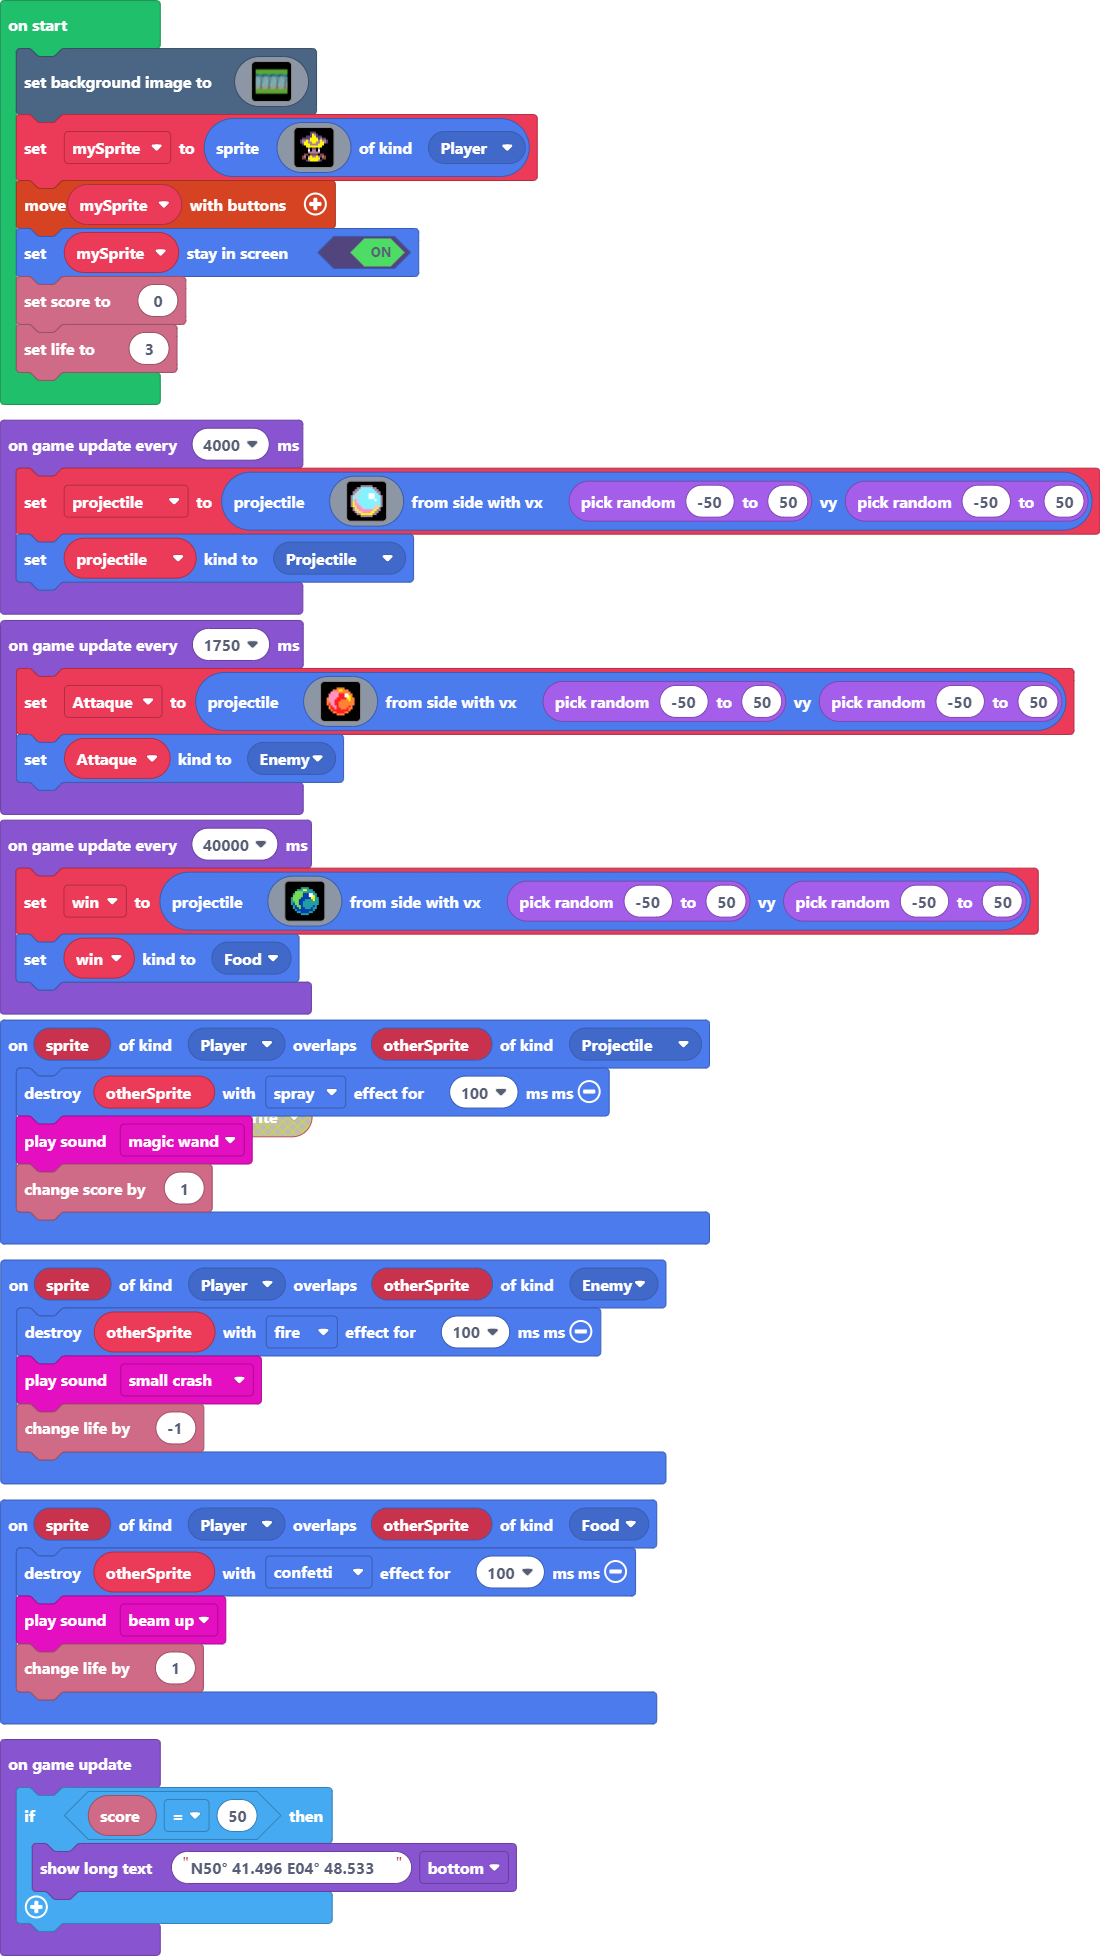
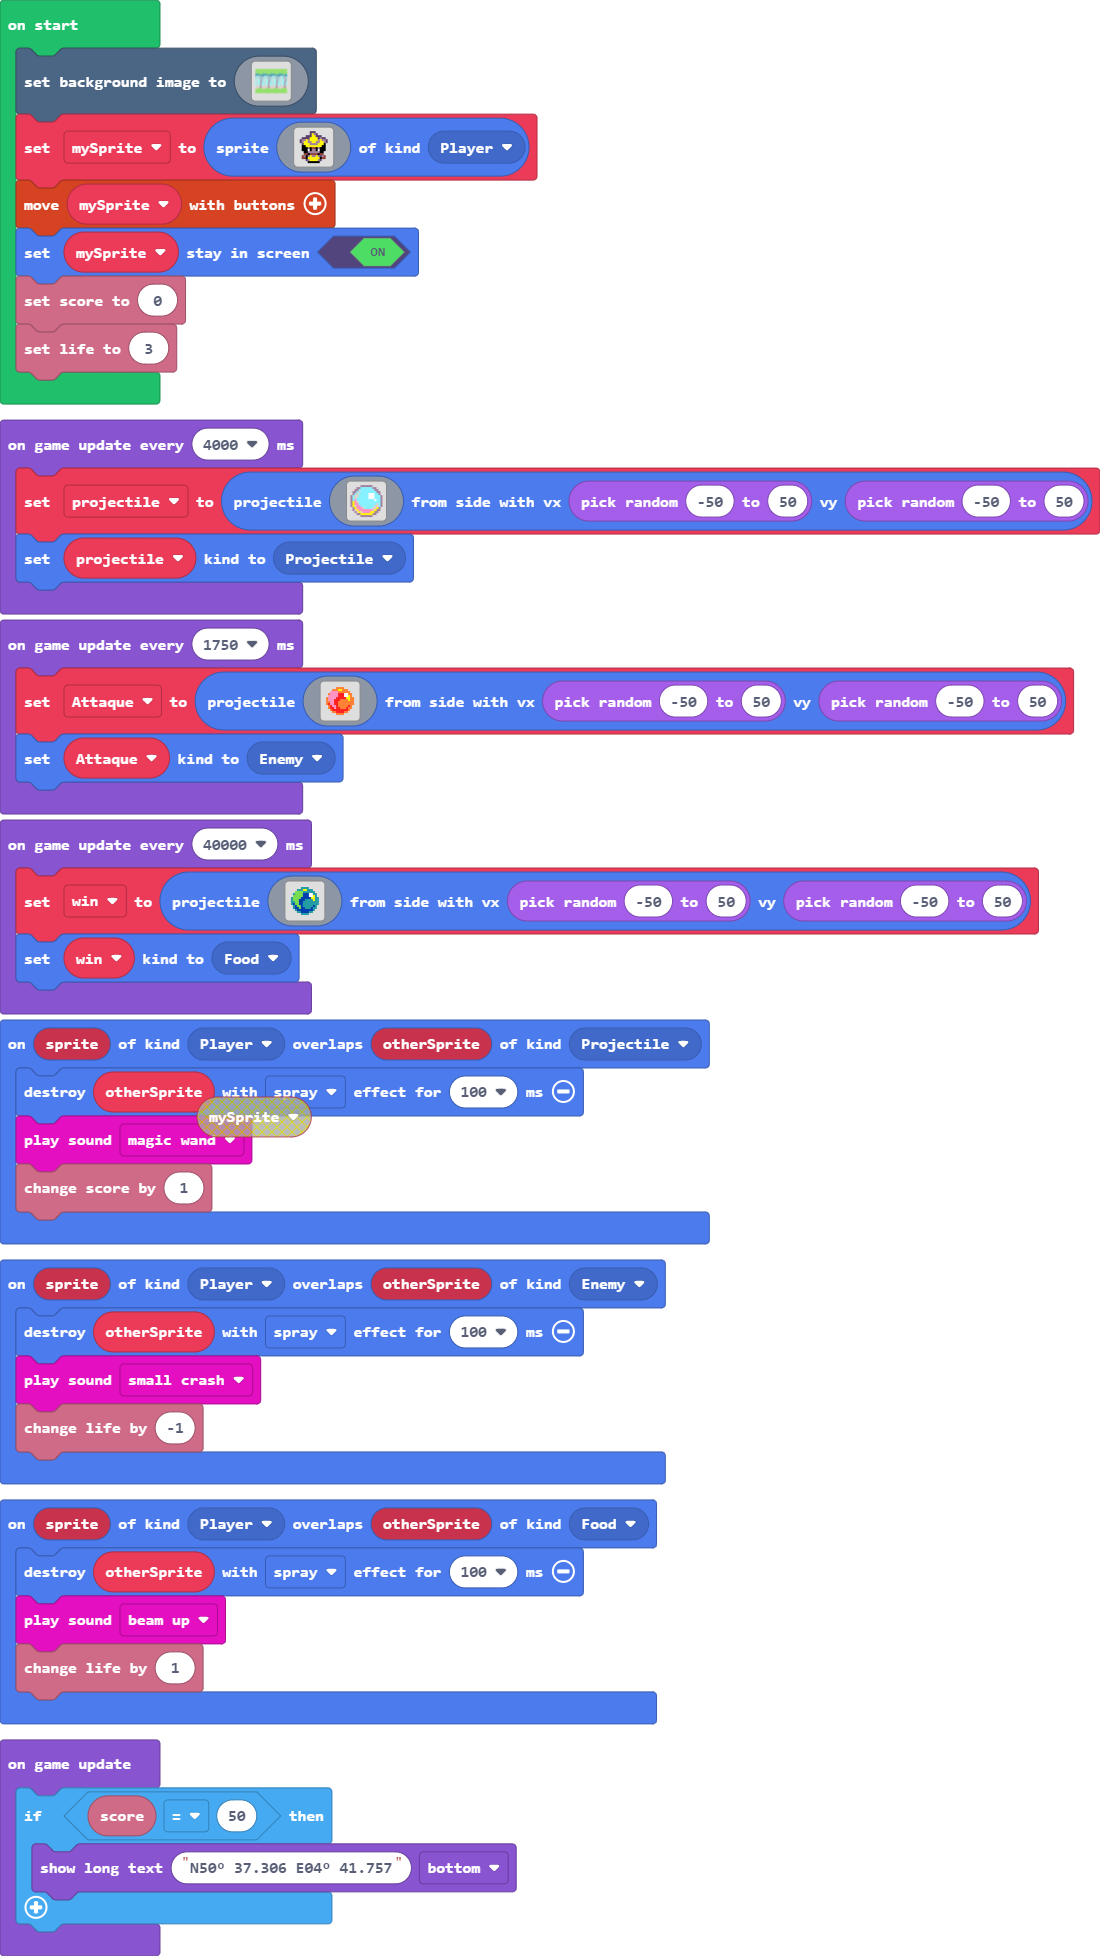
Update pxt.json, main.blocks, main.ts

diff --git a/main.ts b/main.ts
@@ -4,12 +4,12 @@ sprites.onOverlap(SpriteKind.Player, SpriteKind.Projectile, function (sprite, ot
     info.changeScoreBy(1)
 })
 sprites.onOverlap(SpriteKind.Player, SpriteKind.Food, function (sprite, otherSprite) {
-    otherSprite.destroy(effects.confetti, 100)
+    otherSprite.destroy(effects.spray, 100)
     music.beamUp.play()
     info.changeLifeBy(1)
 })
 sprites.onOverlap(SpriteKind.Player, SpriteKind.Enemy, function (sprite, otherSprite) {
-    otherSprite.destroy(effects.fire, 100)
+    otherSprite.destroy(effects.spray, 100)
     music.smallCrash.play()
     info.changeLifeBy(-1)
 })
@@ -162,7 +162,7 @@ info.setScore(0)
 info.setLife(3)
 game.onUpdate(function () {
     if (info.score() == 50) {
-        game.showLongText("N50° 41.496 E04° 48.533", DialogLayout.Bottom)
+        game.showLongText("N50° 37.306 E04° 41.757", DialogLayout.Bottom)
     }
 })
 game.onUpdateInterval(1750, function () {
